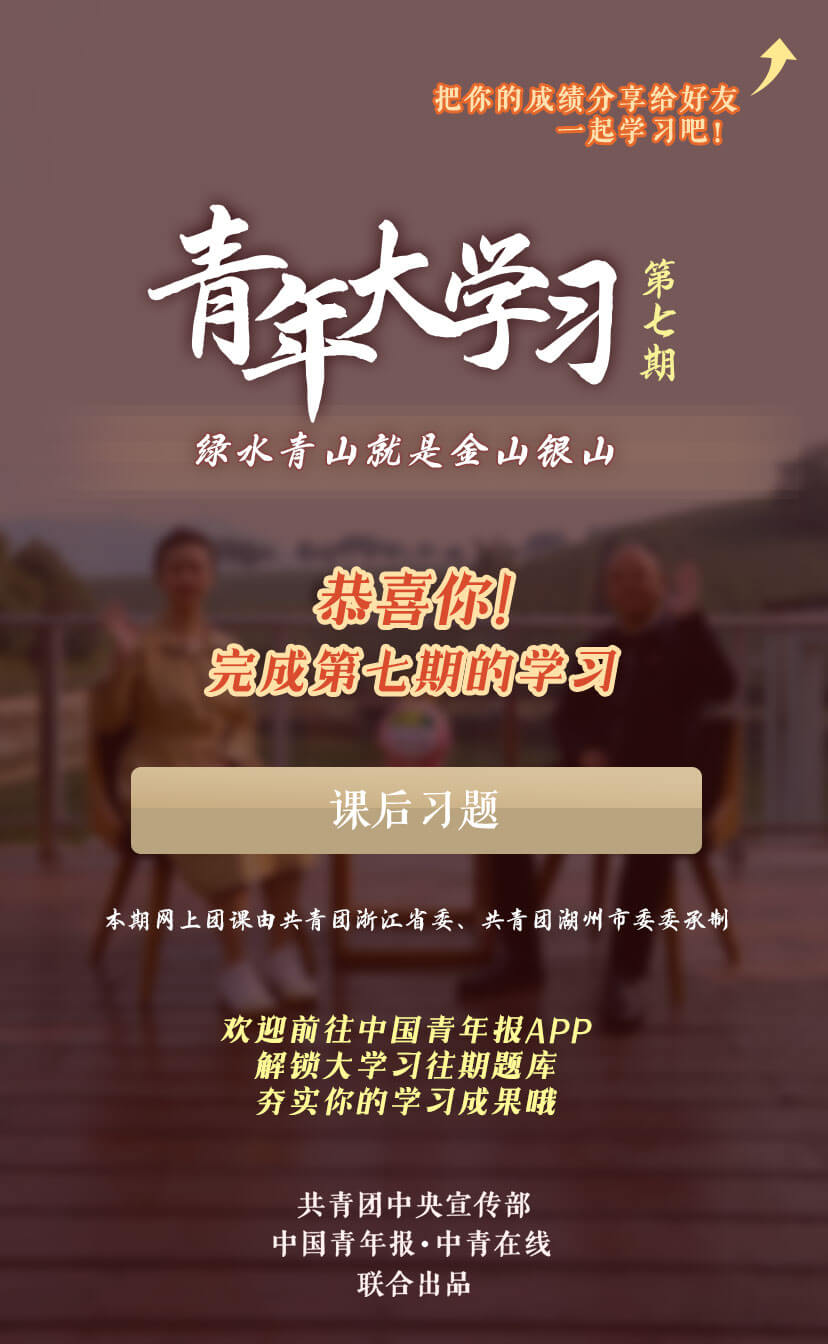
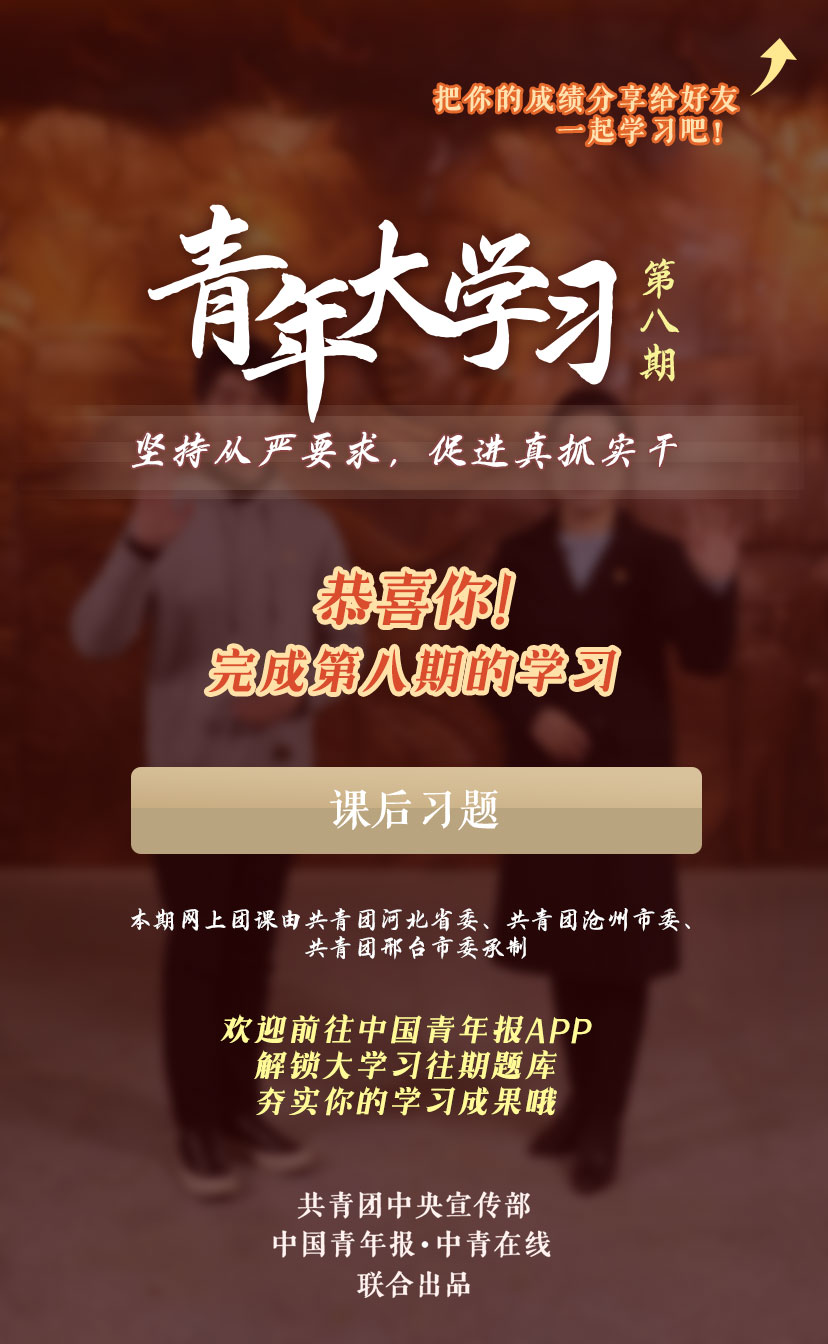
20201228-110001

diff --git a/index.html b/index.html
@@ -1,1 +1,1 @@
-<html> <meta http-equiv="Content-Type" content="text/html; charset=utf-8" /><meta http-equiv="pragma" content="no-cache"><meta http-equiv="expires" content="Tue, 01 Jan 2013 00:00:00 GMT"><meta http-equiv="expires" content="0"><meta http-equiv="Cache-Control" content="no-cache,must-revalidate"><head><title>“青年大学习”第十季第七期</title></head> <body> <img style="position:absolute;left:0px;top:0px;width:100%;height:100%;z-Index:-1;" src="new.jpg" /> </body>
+<html> <meta http-equiv="Content-Type" content="text/html; charset=utf-8" /><meta http-equiv="pragma" content="no-cache"><meta http-equiv="expires" content="Tue, 01 Jan 2013 00:00:00 GMT"><meta http-equiv="expires" content="0"><meta http-equiv="Cache-Control" content="no-cache,must-revalidate"><head><title>“青年大学习”第十季第八期</title></head> <body> <img style="position:absolute;left:0px;top:0px;width:100%;height:100%;z-Index:-1;" src="new.jpg" /> </body>
